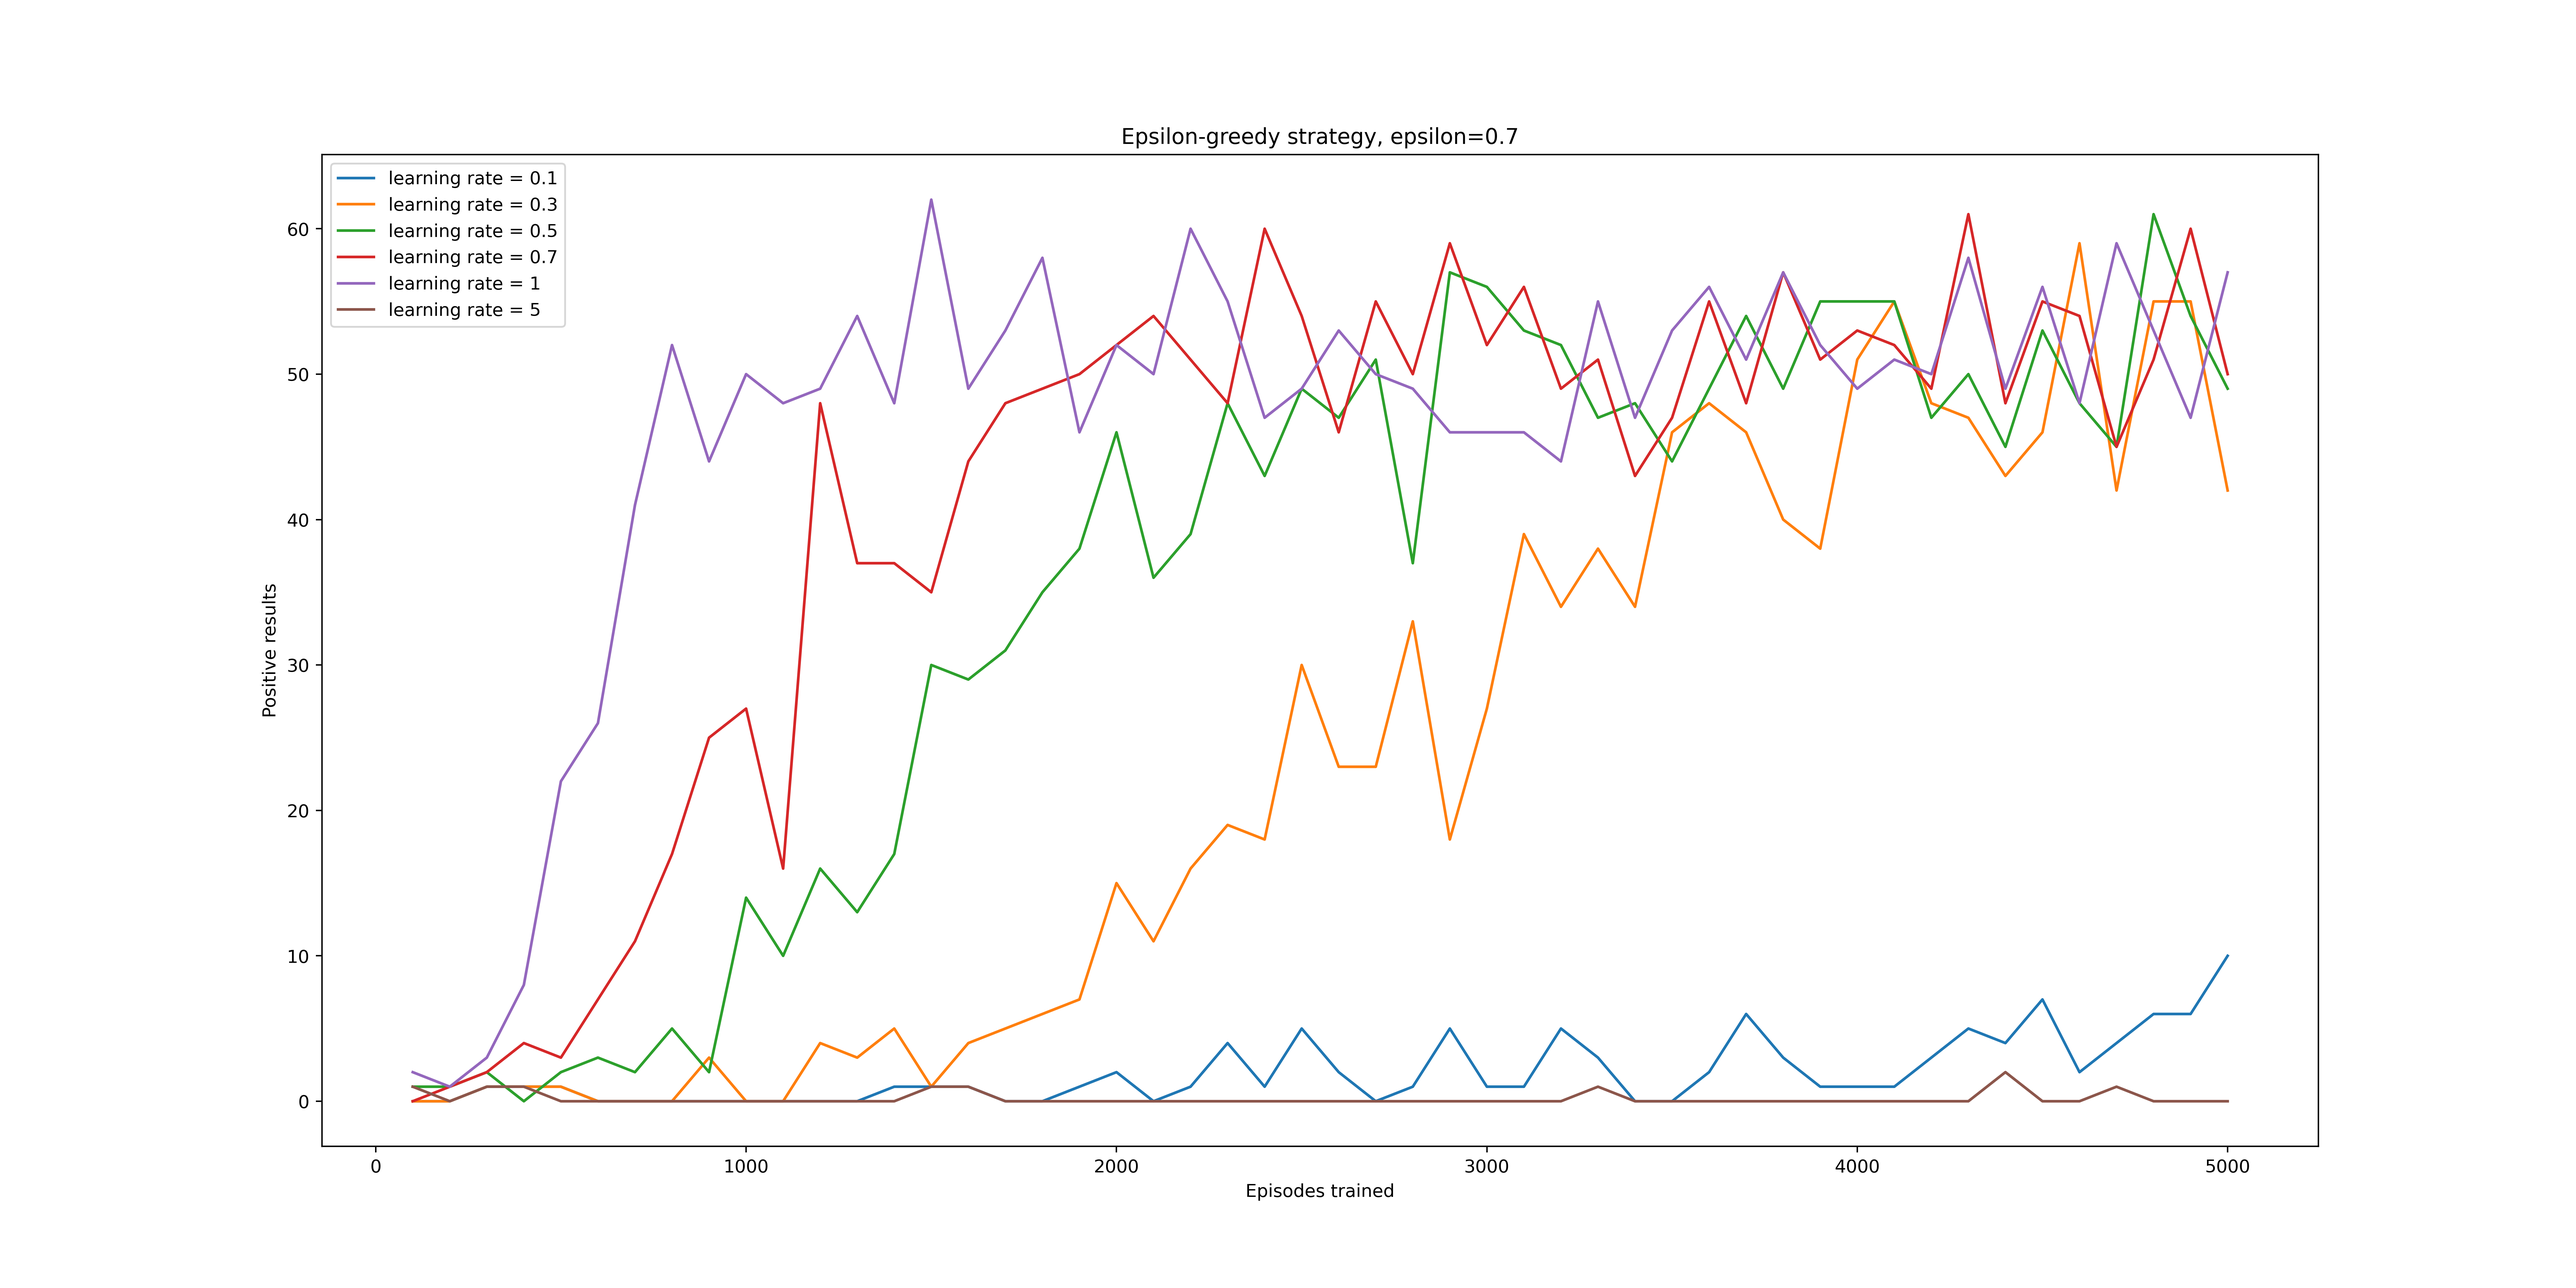
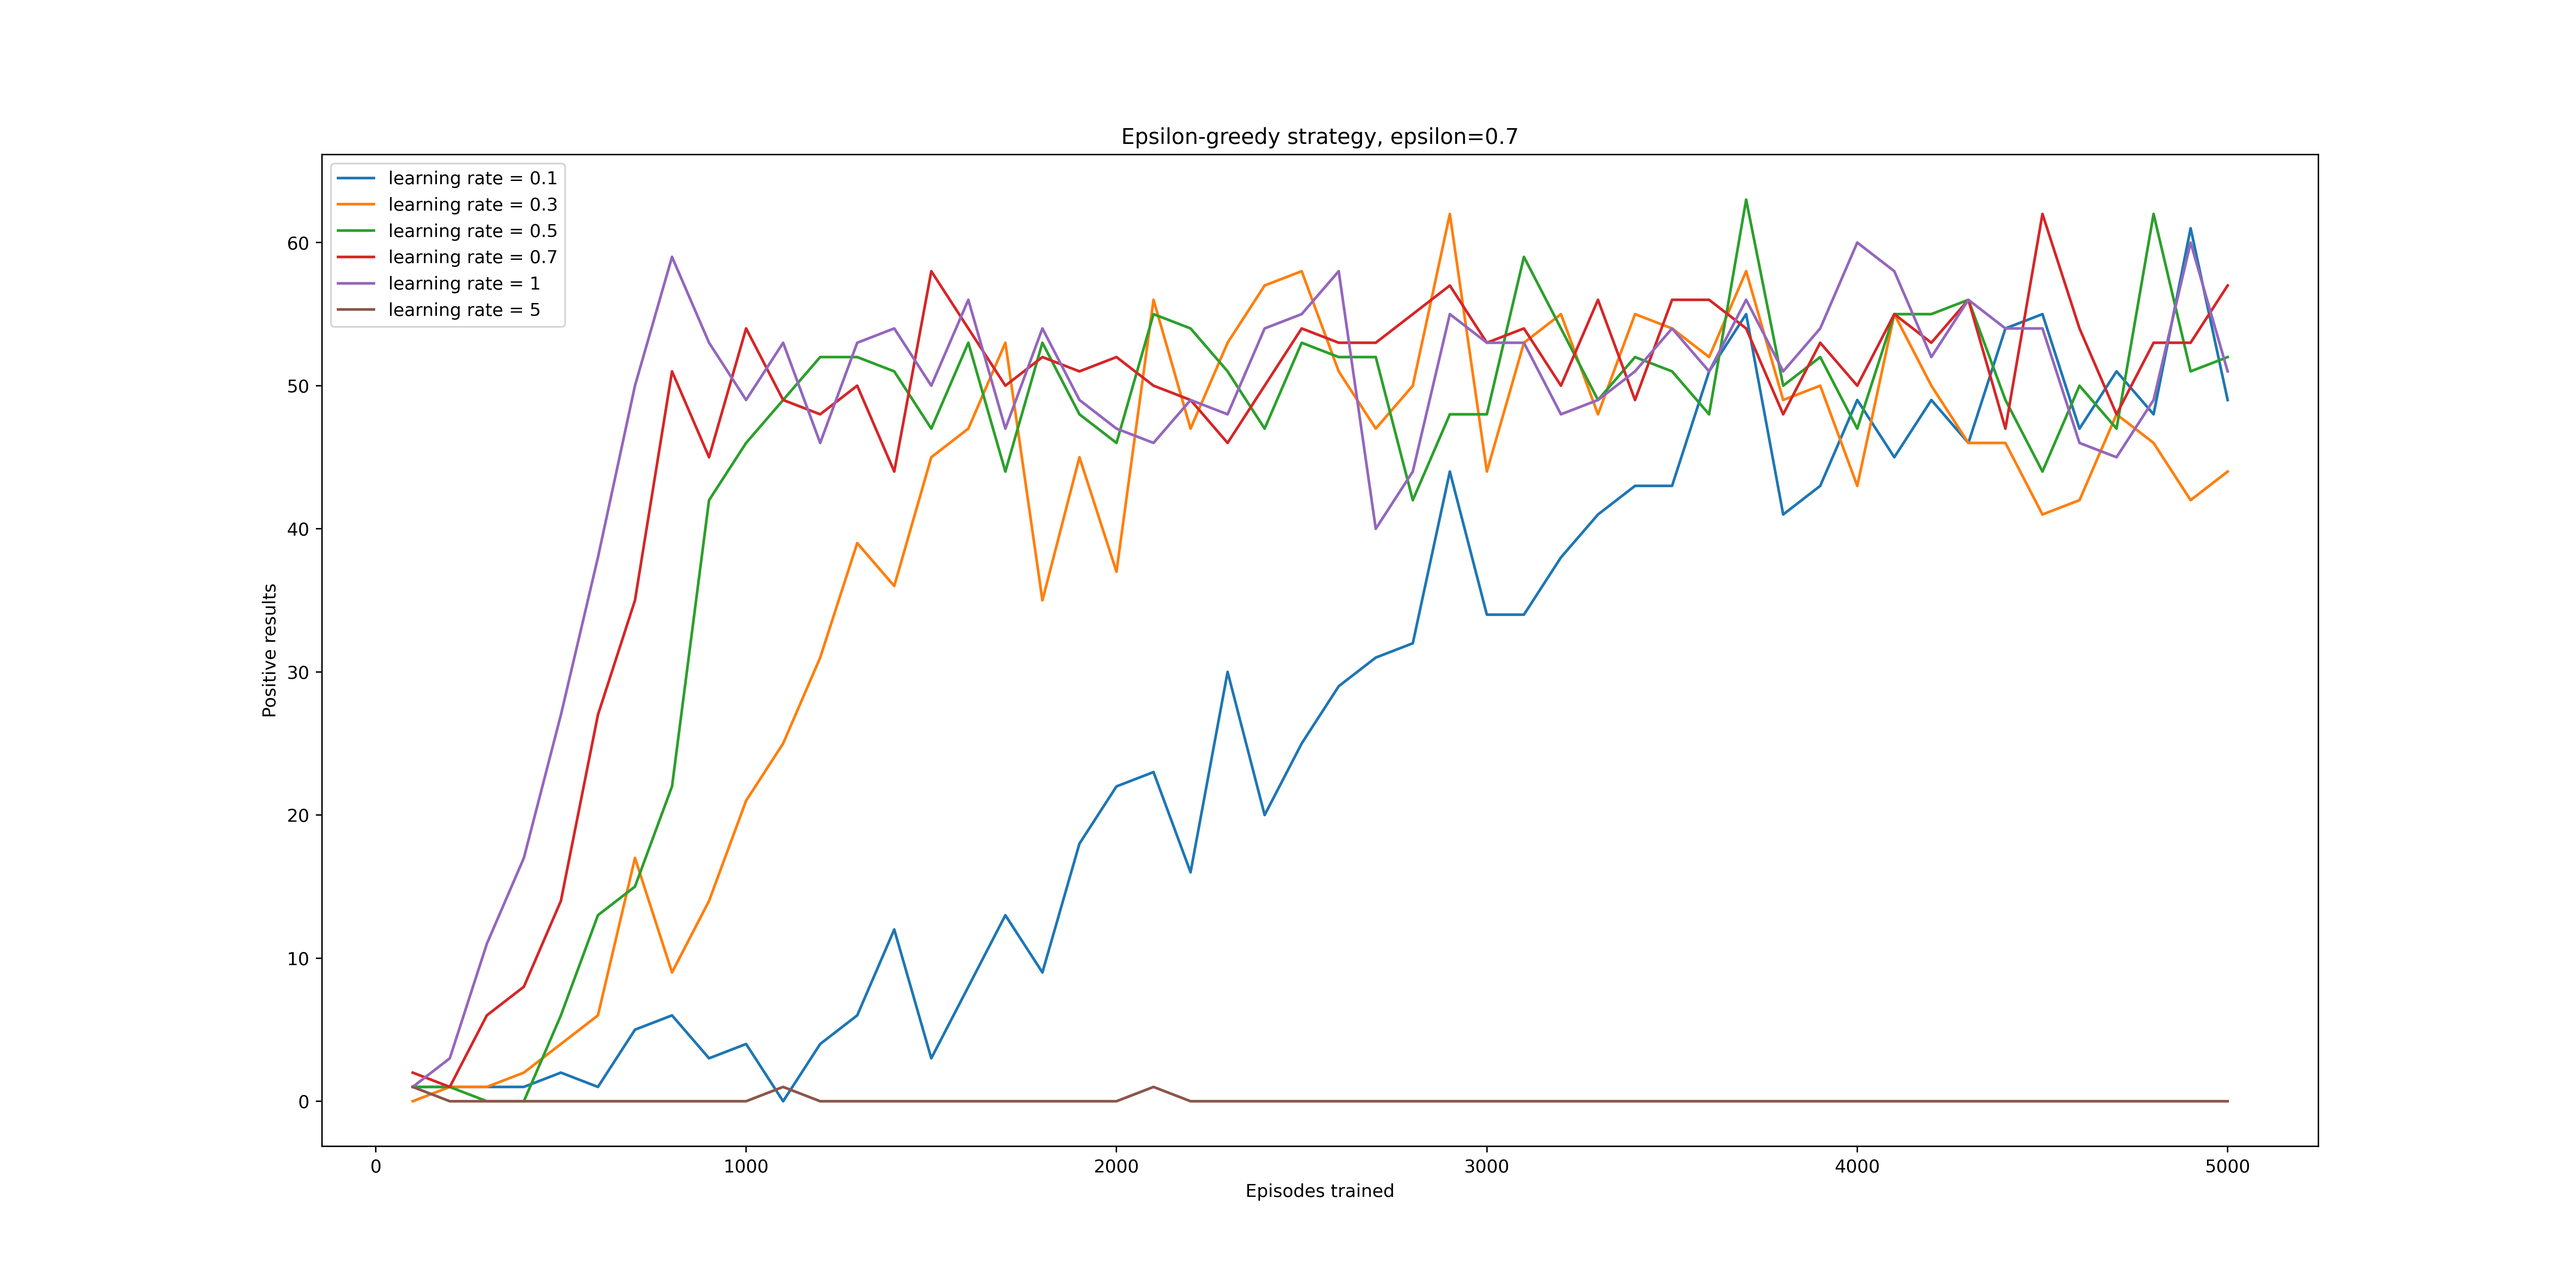
done for real this time

diff --git a/Qlearning/Qtest.py b/Qlearning/Qtest.py
@@ -9,7 +9,7 @@ def test_greedy():
     moves = 50
     test_moves = 50
     learning_rates = [0.1,0.3,0.5,0.7,1,5]
-    Q_learn = Q_learning(initial_value=0, learning_rate=0.5, env=envi, discount_factor=0.1, from_jason=False, tau=0.0000000000001)
+    Q_learn = Q_learning(initial_value=0, learning_rate=0.5, env=envi, discount_factor=0.9, from_jason=False, tau=0.0000000000001)
     fig, ax = plt.subplots()
     fig.set_figheight(10)
     fig.set_figwidth(20)
@@ -38,7 +38,7 @@ def test_epsilon_greedy():
     test_moves = 50
     learning_rates = [0.1,0.3,0.5,0.7,1,5]
     epsilons = [0.3, 0.5, 0.7]
-    Q_learn = Q_learning(initial_value=0, learning_rate=0.5, env=envi, discount_factor=0.1, from_jason=False, epsilon=1)
+    Q_learn = Q_learning(initial_value=0, learning_rate=0.5, env=envi, discount_factor=0.9, from_jason=False, epsilon=1)
     for epsilon in epsilons:
         Q_learn.epsilon = epsilon
         fig, ax = plt.subplots()
@@ -68,8 +68,8 @@ def test_boltzmann():
     moves = 50
     test_moves = 50
     learning_rates = [0.1,0.3,0.5,0.7,1,5]
-    taus = [0.1,1,10]
-    Q_learn = Q_learning(initial_value=0, learning_rate=0.5, env=envi, discount_factor=0.1, from_jason=False, tau=2)
+    taus = [0.1, 1, 10]
+    Q_learn = Q_learning(initial_value=0, learning_rate=0.5, env=envi, discount_factor=0.9, from_jason=False, tau=2)
 
     for tau in taus:
         Q_learn.tau = tau;
@@ -100,7 +100,7 @@ def test_count():
     moves = 50
     test_moves = 50
     learning_rates = [0.1,0.3,0.5,0.7,1,5]
-    Q_learn = Q_learning(initial_value=0, learning_rate=0.5, env=envi, discount_factor=0.1, from_jason=False)
+    Q_learn = Q_learning(initial_value=0, learning_rate=0.5, env=envi, discount_factor=0.9, from_jason=False)
     fig, ax = plt.subplots()
     fig.set_figheight(10)
     fig.set_figwidth(20)
@@ -122,17 +122,16 @@ def test_count():
     envi.close()
 
 if __name__ == "__main__":
-    #test_boltzmann()
-    test_greedy()
-    #test_epsilon_greedy()
-    #test_count()
+    test_boltzmann()
+    #test_greedy()
+    test_epsilon_greedy()
+    test_count()
     '''envi = gym.make('Taxi-v3')
-    Q_learn = Q_learning(initial_value=0, learning_rate=0.5, env=envi, discount_factor=0.2)
-    Q_learn.train(5000, 50, "greedy")
-    Q_learn.saveTable()
-
-    envi2 = gym.make('Taxi-v3', render_mode="human")
+    Q_learn = Q_learning(initial_value=0, learning_rate=0.5, env=envi, discount_factor=0.9, tau=0.1)
+    Q_learn.train(5000, 100, "boltzmann")
+    Q_learn.saveTable()'''
+    
+    '''envi2 = gym.make('Taxi-v3', render_mode="human")
+    Q_learn = Q_learning(initial_value=0, learning_rate=0.5, env=envi2, discount_factor=0.9, from_jason=True, tau=0.1)
     Q_learn.env = envi2
-    Q_learn.resetTable()
-    Q_learn.table = Q_learn.loadTable("qtable.json")
-    Q_learn.episodeTest(50, Q_learn.greedyChoice)'''
+    Q_learn.episodeTest(50, Q_learn.boltzmannChoice)'''
